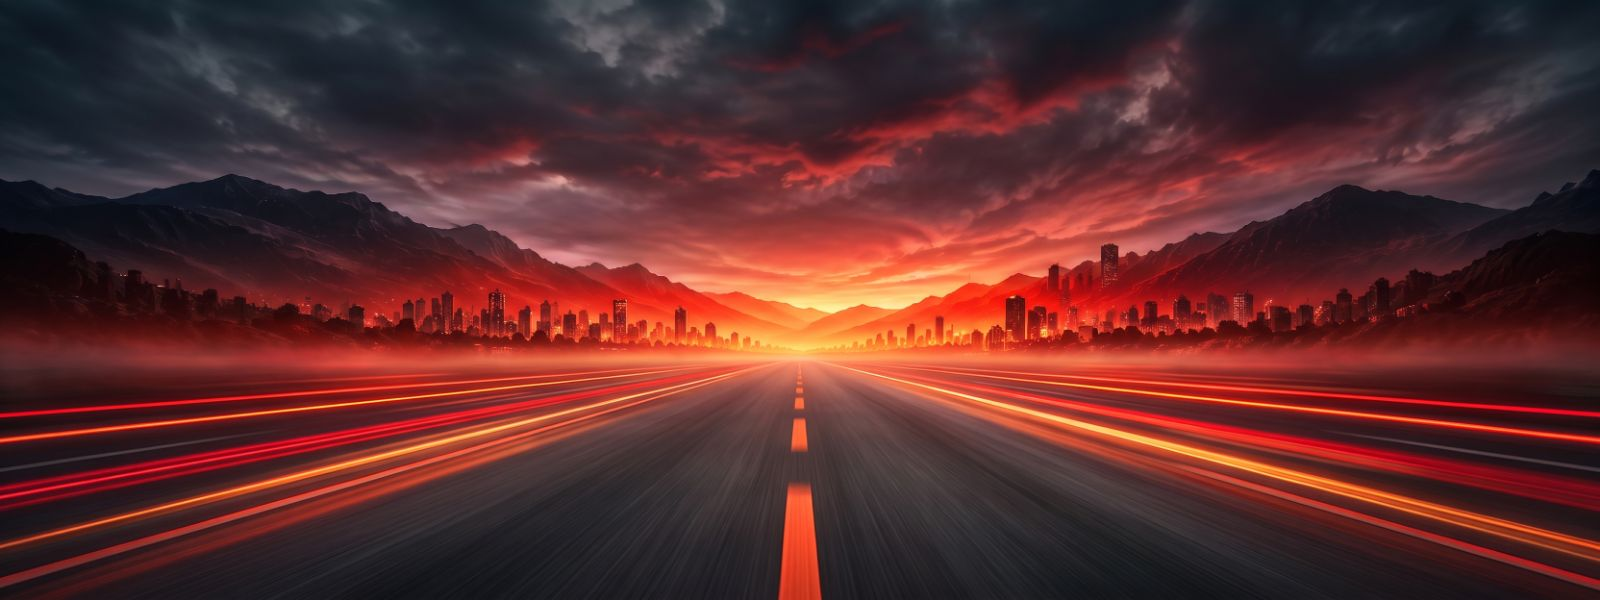
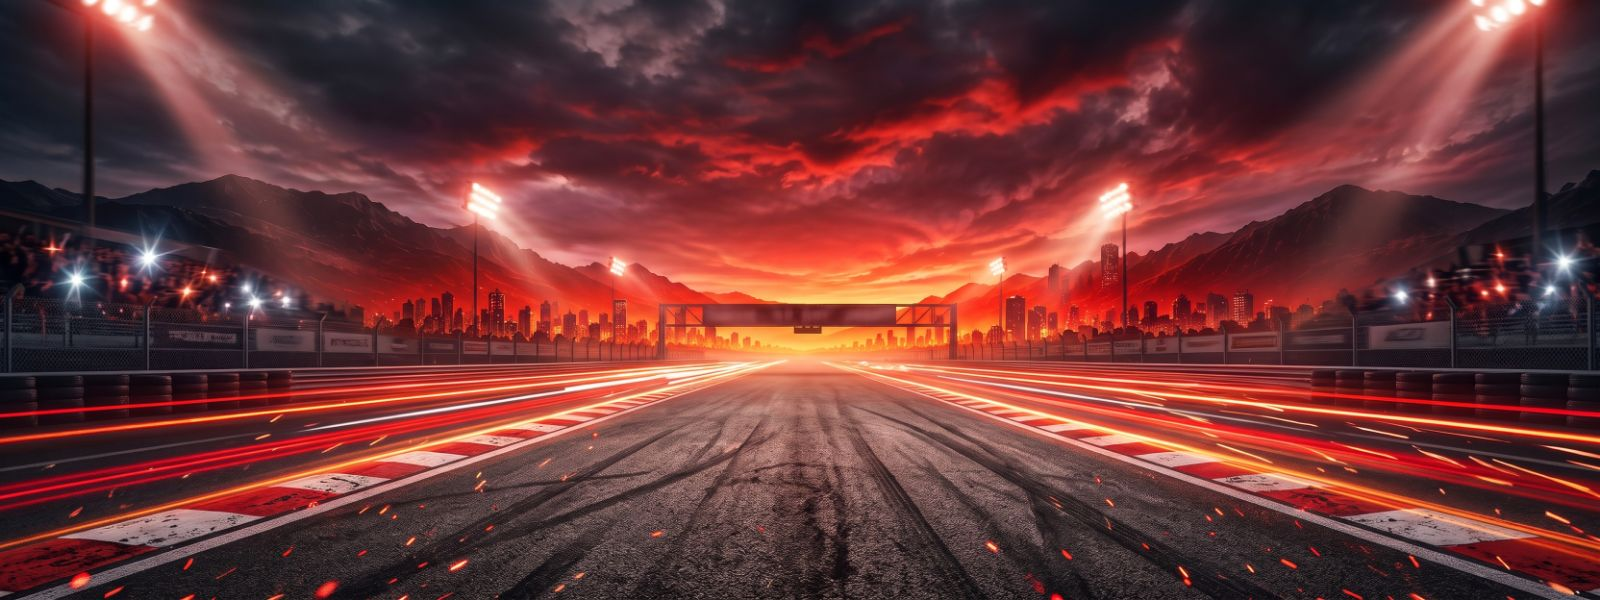
feat(themes): track backdrop, cross-fade between scenes and mode accents
- the sport scene is the new circuit picture, served at 1600x600 (154 KB from
  a 2 MB source)
- switching scenes cross-fades over 0.75 s while the incoming picture settles
  from a 1.06 scale, so the change reads as a camera move instead of a cut
- the accent is now a CSS variable set by the drive mode: in SPORT the panel
  edges, level bars, gauge scale, gear rings and icons turn warm, and the tyre
  picture takes a sepia tint to belong to the red scene; every other mode keeps
  the azure measured from the art

diff --git a/themes/dash/byd/index.html b/themes/dash/byd/index.html
@@ -9,8 +9,28 @@
   svg { display: block; }
   /* o carro do cartão de pressão vem sobre azul-escuro: o screen soma só o brilho */
   /* a arte vem com um fundo azul-escuro: o screen soma o brilho e o contrast joga o fundo a zero */
-  #tyrecar { mix-blend-mode: screen; filter: contrast(1.55) brightness(1.22) saturate(1.1); }
+  #tyrecar { mix-blend-mode: screen; filter: contrast(1.55) brightness(1.22) saturate(1.1);
+             transition: filter 0.6s ease; }
+  /* no SPORT a arte azul do carro acompanha o calor da cena */
+  #tyrecar.warm { filter: contrast(1.55) brightness(1.1) sepia(0.6) hue-rotate(-25deg) saturate(1.7); }
   text { font-family: "Barlow", Roboto, "Helvetica Neue", Arial, sans-serif; fill: #eaf3ff; }
+  /* as cores de destaque vêm de variáveis: trocar de modo muda tudo de uma vez */
+  svg { --accent: #0480ff; --accent-core: #8ac6ff; --accent-soft: #2f4f6c; --accent-icon: #5ab6ff; }
+  .edge-halo, .edge-mid, .edge-core, .ring, .tick, .icon, .bar-lit {
+    transition: stroke 0.55s ease, fill 0.55s ease;
+  }
+  .edge-halo { stroke: var(--accent); }
+  .edge-mid { stroke: var(--accent); }
+  .edge-core { stroke: var(--accent-core); }
+  .ring { stroke: var(--accent); }
+  .ring.on { stroke: var(--accent-core); }
+  .tick { stroke: var(--accent-soft); }
+  .icon { stroke: var(--accent-icon); }
+  .bar-lit, .icon-fill { fill: var(--accent); transition: fill 0.55s ease; }
+  /* troca de paisagem: cross-fade com um leve zoom de aproximação */
+  .bg { opacity: 0; transform: scale(1.06); transform-box: view-box; transform-origin: 50% 50%;
+        transition: opacity 0.75s ease, transform 1.4s cubic-bezier(.2,.7,.2,1); }
+  .bg.in { opacity: 1; transform: none; }
   .dim { fill: #b9cfe2; }
   .mut { fill: #6a8aa6; }
   .cy { fill: #38cfff; }
@@ -126,10 +146,12 @@
   el('rect', { x: 0, y: 0, width: W, height: H, fill: '#04070c' });
   var gBg = el('g', { 'clip-path': 'url(#clipFrame)' });
   var bgNormal = el('image', {
-    href: 'assets/bg.jpg', x: -306, y: -8, width: 1892, height: 340, preserveAspectRatio: 'xMidYMid slice'
+    id: 'bgNight', class: 'bg in', href: 'assets/bg.jpg',
+    x: -306, y: -8, width: 1892, height: 340, preserveAspectRatio: 'xMidYMid slice'
   }, gBg);
   var bgSport = el('image', {
-    href: 'assets/bg-sport.jpg', x: 0, y: 0, width: W, height: H, preserveAspectRatio: 'xMidYMid slice', opacity: 0
+    id: 'bgSport', class: 'bg out', href: 'assets/bg-sport.jpg',
+    x: 0, y: 0, width: W, height: H, preserveAspectRatio: 'xMidYMid slice'
   }, gBg);
   el('rect', { x: 0, y: 150, width: W, height: 230, fill: 'url(#gFade)' }, gBg);
   el('rect', { x: 0, y: 380, width: W, height: 100, fill: '#04070c' }, gBg);
@@ -167,7 +189,7 @@
       var p0 = pt(cx, RING_Y, R - 11, ta), p1 = pt(cx, RING_Y, R - (major ? 27 : 20), ta);
       el('line', {
         x1: p0[0], y1: p0[1], x2: p1[0], y2: p1[1],
-        stroke: major ? '#4d7595' : '#2f4f6c', 'stroke-width': major ? 2.4 : 1.5,
+        class: 'tick', 'stroke-width': major ? 2.4 : 1.5,
         'stroke-linecap': 'butt', opacity: major ? 0.95 : 0.7
       }, g);
     }
@@ -226,9 +248,9 @@
   var ICON = '#5ab6ff';
   function neon(parent, x, y, w, h, r, k) {
     var f = k || 1;
-    rrect(x, y, w, h, r, { fill: 'none', stroke: NEON, 'stroke-width': 9 * f, opacity: 0.08 }, parent);
-    rrect(x + 3, y + 3, w - 6, h - 6, Math.max(2, r - 3), { fill: 'none', stroke: NEON_CORE, 'stroke-width': 1, opacity: 0.18 }, parent);
-    return rrect(x, y, w, h, r, { fill: 'none', stroke: NEON, 'stroke-width': 1.5 * f, opacity: 0.65 }, parent);
+    rrect(x, y, w, h, r, { class: 'edge-halo', fill: 'none', 'stroke-width': 9 * f, opacity: 0.08 }, parent);
+    rrect(x + 3, y + 3, w - 6, h - 6, Math.max(2, r - 3), { class: 'edge-core', fill: 'none', 'stroke-width': 1, opacity: 0.18 }, parent);
+    return rrect(x, y, w, h, r, { class: 'edge-mid', fill: 'none', 'stroke-width': 1.5 * f, opacity: 0.65 }, parent);
   }
   function card(x, w) {
     var g = el('g');
@@ -242,12 +264,12 @@
     return el('rect', { x: x + 3, y: y + 15, width: 12, height: 10, rx: 2, fill: '#38cfff' }, parent);
   }
   function pumpIcon(x, y, parent) {
-    el('rect', { x: x, y: y, width: 15, height: 28, rx: 3, fill: 'none', stroke: ICON, 'stroke-width': 2 }, parent);
+    el('rect', { x: x, y: y, width: 15, height: 28, rx: 3, fill: 'none', class: 'icon', 'stroke-width': 2 }, parent);
     el('path', {
       d: 'M' + (x + 15) + ' ' + (y + 6) + 'h6v10a3.5 3.5 0 0 0 7 0V' + (y + 4),
-      fill: 'none', stroke: ICON, 'stroke-width': 2, 'stroke-linecap': 'round'
+      fill: 'none', class: 'icon', 'stroke-width': 2, 'stroke-linecap': 'round'
     }, parent);
-    return el('rect', { x: x + 3, y: y + 6, width: 9, height: 7, rx: 1, fill: ICON }, parent);
+    return el('rect', { x: x + 3, y: y + 6, width: 9, height: 7, rx: 1, class: 'icon-fill' }, parent);
   }
   /* barra de nível em blocos, como no desenho */
   function segBar(parent, x, y, w, h, n) {
@@ -260,7 +282,13 @@
   function drawSegBar(cells, frac) {
     var lit = Math.round(Math.max(0, Math.min(1, frac)) * cells.length);
     cells.forEach(function (r, i) {
-      r.setAttribute('fill', i < lit ? NEON : '#0e1d2c');
+      if (i < lit) {
+        r.setAttribute('class', 'bar-lit');
+        r.removeAttribute('fill');
+      } else {
+        r.setAttribute('class', '');
+        r.setAttribute('fill', '#0e1d2c');
+      }
     });
   }
   function mountainIcon(x, y, s, parent) {
@@ -301,7 +329,7 @@
   var c2 = card(470, 340);
   c2.firstChild.setAttribute('fill', '#04090f');
   /* a imagem inteira preenche o cartão; os números ficam em cima, onde as linhas terminam */
-  el('image', { id: 'tyrecar', href: 'assets/tyre.jpg', x: 519, y: 330, width: 242, height: 136,
+  var tyrecarImg = el('image', { id: 'tyrecar', href: 'assets/tyre.jpg', x: 519, y: 330, width: 242, height: 136,
     preserveAspectRatio: 'xMidYMid meet' }, c2);
   var TYRE = [['fl', 590, 366, 'end'], ['fr', 690, 366, 'start'], ['rl', 590, 438, 'end'], ['rr', 690, 438, 'start']];
   var tyreNum = {};
@@ -366,8 +394,8 @@
   var SEL_ORDER = ['P', 'R', 'N', 'D'], gearCells = [];
   for (var gi = 0; gi < 4; gi++) {
     var gx = 872 + gi * 48;
-    el('circle', { cx: gx + 21, cy: 424, r: 16.5, fill: 'none', stroke: NEON, 'stroke-width': 7, opacity: 0.06 }, c3);
-    var ringStroke = el('circle', { cx: gx + 21, cy: 424, r: 16.5, fill: 'none', stroke: NEON, 'stroke-width': 1.3, opacity: 0.55 }, c3);
+    el('circle', { cx: gx + 21, cy: 424, r: 16.5, fill: 'none', class: 'ring', 'stroke-width': 7, opacity: 0.06 }, c3);
+    var ringStroke = el('circle', { cx: gx + 21, cy: 424, r: 16.5, fill: 'none', class: 'ring', 'stroke-width': 1.3, opacity: 0.55 }, c3);
     gearCells.push({
       bg: el('circle', { cx: gx + 21, cy: 424, r: 15, fill: 'rgba(11,24,38,0.9)' }, c3),
       ring: ringStroke,
@@ -435,11 +463,18 @@
     modeTxt.textContent = mode.toUpperCase();
     modeGlyph(mode);
 
-    /* SPORT troca a paisagem por uma cena de estrada em brasa */
+    /* SPORT troca a paisagem por uma cena de estrada em brasa, com cross-fade e zoom */
     var sport = /SPORT/i.test(mode);
-    bgSport.setAttribute('opacity', sport ? '0.92' : '0');
-    bgNormal.setAttribute('opacity', sport ? '0' : '1');
+    bgSport.setAttribute('class', sport ? 'bg in' : 'bg out');
+    bgNormal.setAttribute('class', sport ? 'bg out' : 'bg in');
     truckGlow.setAttribute('fill', sport ? '#ff7a3c' : '#2f9df5');
+
+    /* o destaque dos painéis acompanha o modo: quente no SPORT, azul nos outros */
+    svg.style.setProperty('--accent', sport ? '#ff6a2b' : '#0480ff');
+    svg.style.setProperty('--accent-core', sport ? '#ffc79a' : '#8ac6ff');
+    svg.style.setProperty('--accent-soft', sport ? '#6b4632' : '#2f4f6c');
+    svg.style.setProperty('--accent-icon', sport ? '#ff8a4d' : '#5ab6ff');
+  tyrecarImg.setAttribute('class', sport ? 'warm' : '');
 
     var soc = pct(d.soc);
     batNum.firstChild.nodeValue = soc === null ? '--' : String(Math.round(soc));
@@ -479,7 +514,7 @@
     gearCells.forEach(function (c, i) {
       var on = SEL_ORDER[i] === sel;
       c.bg.setAttribute('fill', on ? 'rgba(4,128,255,0.3)' : 'rgba(11,24,38,0.9)');
-      c.ring.setAttribute('stroke', on ? NEON_CORE : NEON);
+      c.ring.setAttribute('class', on ? 'ring on' : 'ring');
       c.ring.setAttribute('opacity', on ? '1' : '0.55');
       c.ring.setAttribute('stroke-width', on ? '2' : '1.3');
       c.tx.setAttribute('class', on ? 'num' : 'mut');
